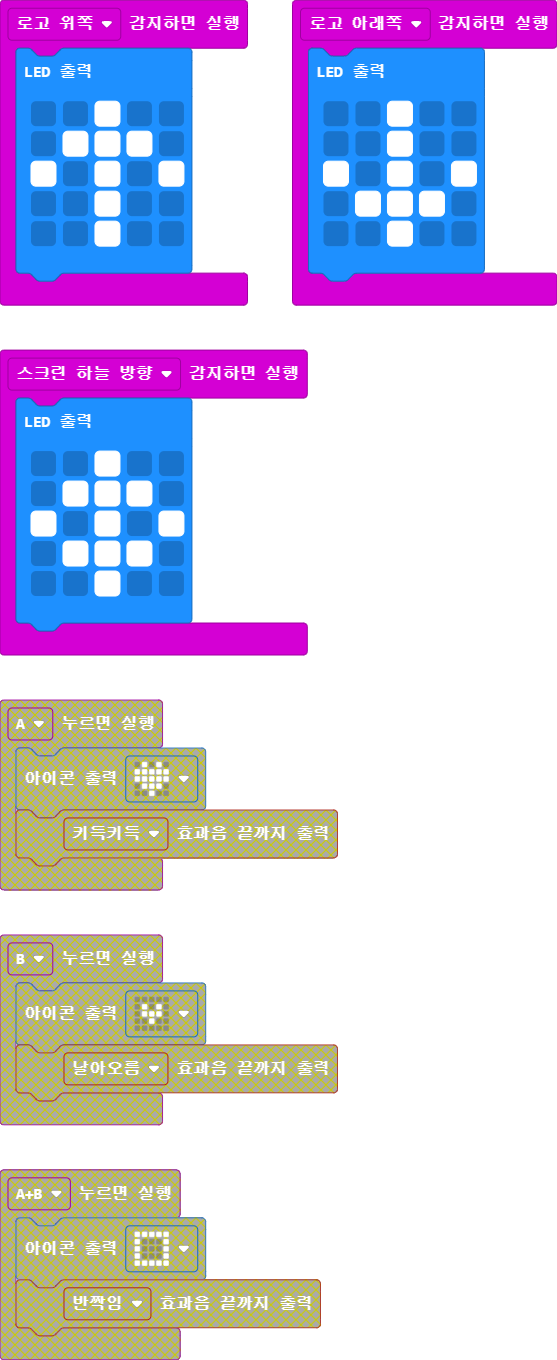
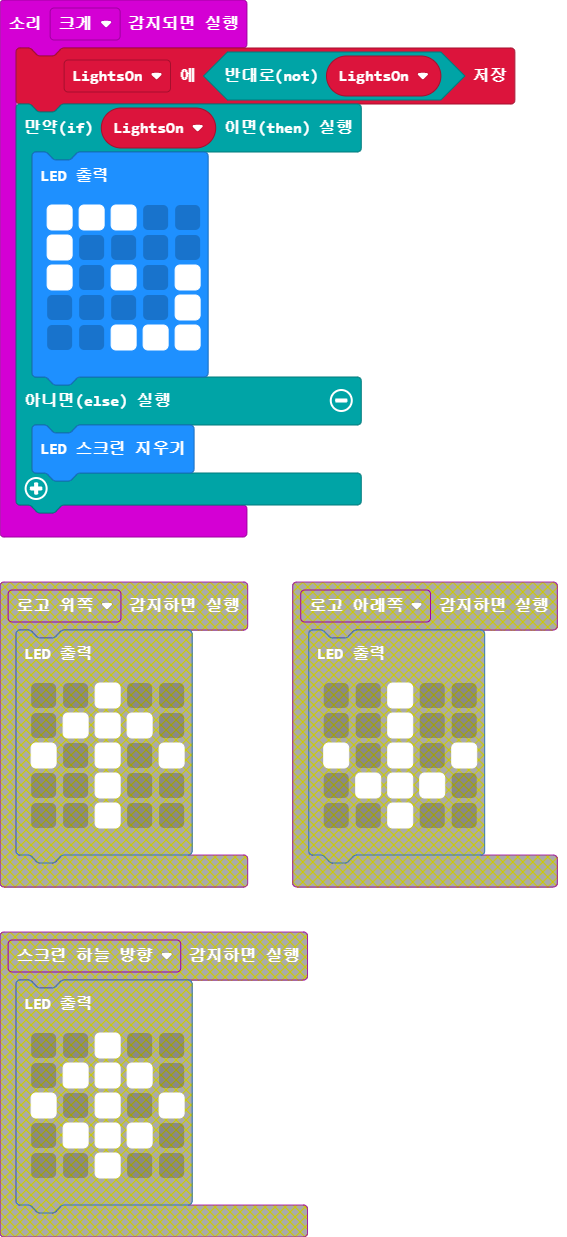
main.blocks, main.ts 업데이트하기

diff --git a/main.ts b/main.ts
@@ -1,29 +1,17 @@
-input.onGesture(Gesture.ScreenUp, function () {
-    basic.showLeds(`
-        . . # . .
-        . # # # .
-        # . # . #
-        . # # # .
-        . . # . .
-        `)
-})
-input.onGesture(Gesture.LogoDown, function () {
-    basic.showLeds(`
-        . . # . .
-        . . # . .
-        # . # . #
-        . # # # .
-        . . # . .
-        `)
-})
-input.onGesture(Gesture.LogoUp, function () {
-    basic.showLeds(`
-        . . # . .
-        . # # # .
-        # . # . #
-        . . # . .
-        . . # . .
-        `)
+let LightsOn = false
+input.onSound(DetectedSound.Loud, function () {
+    LightsOn = !(LightsOn)
+    if (LightsOn) {
+        basic.showLeds(`
+            # # # . .
+            # . . . .
+            # . # . #
+            . . . . #
+            . . # # #
+            `)
+    } else {
+        basic.clearScreen()
+    }
 })
 basic.forever(function () {
 	
